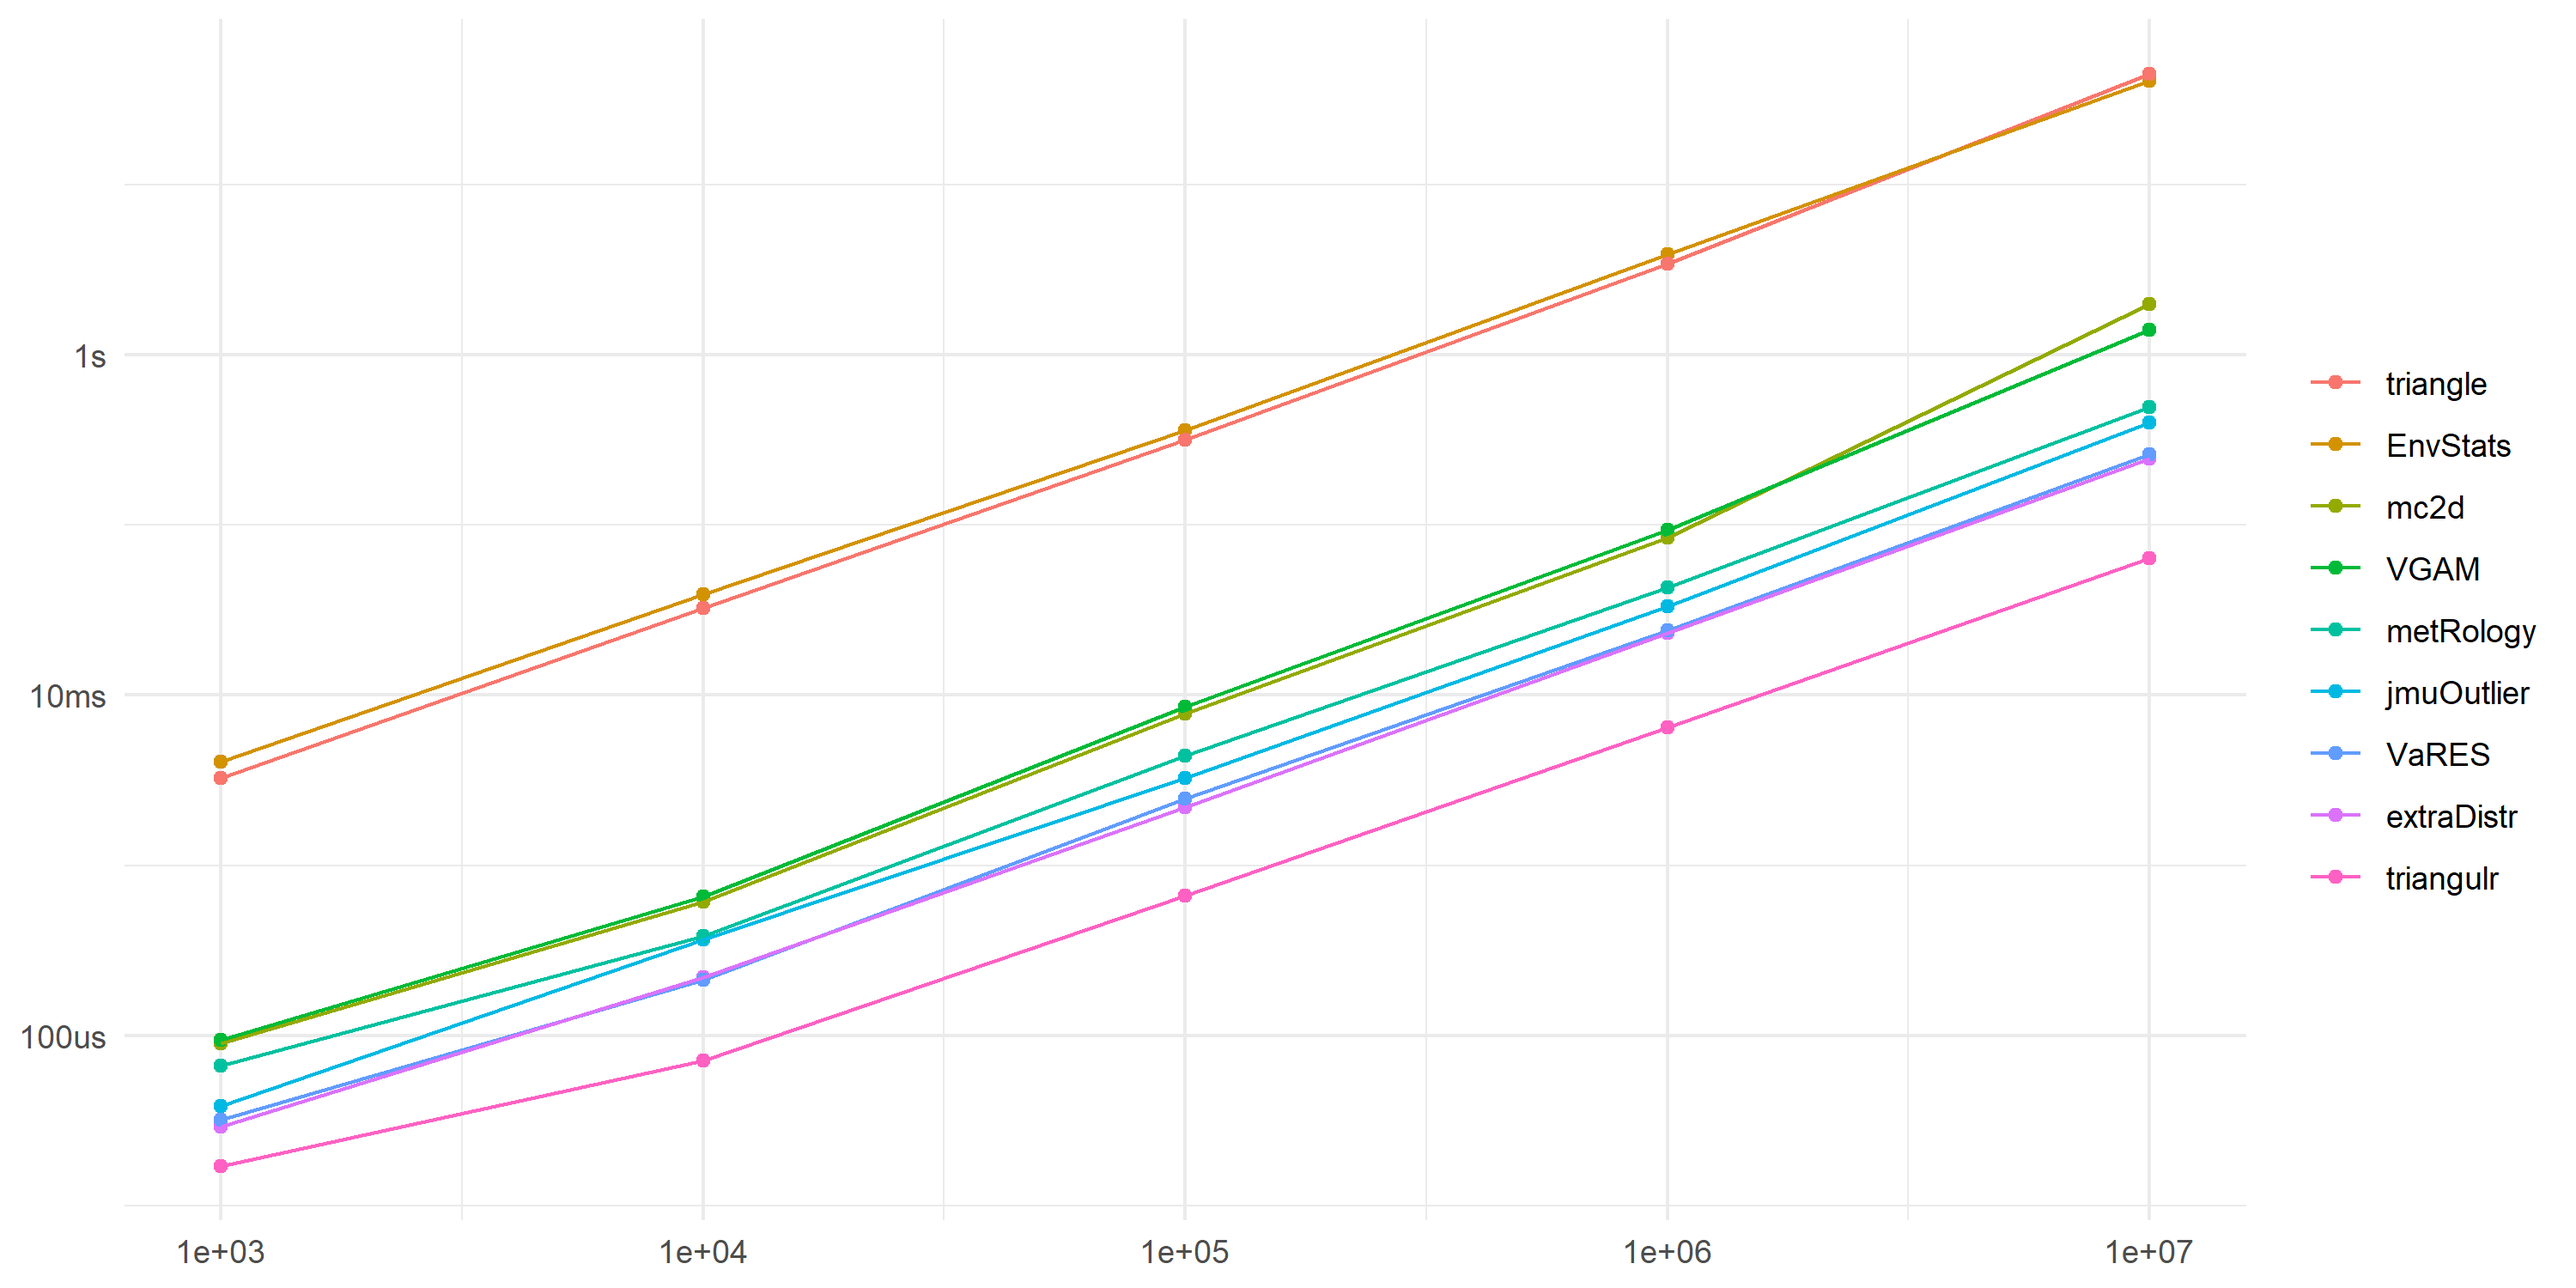
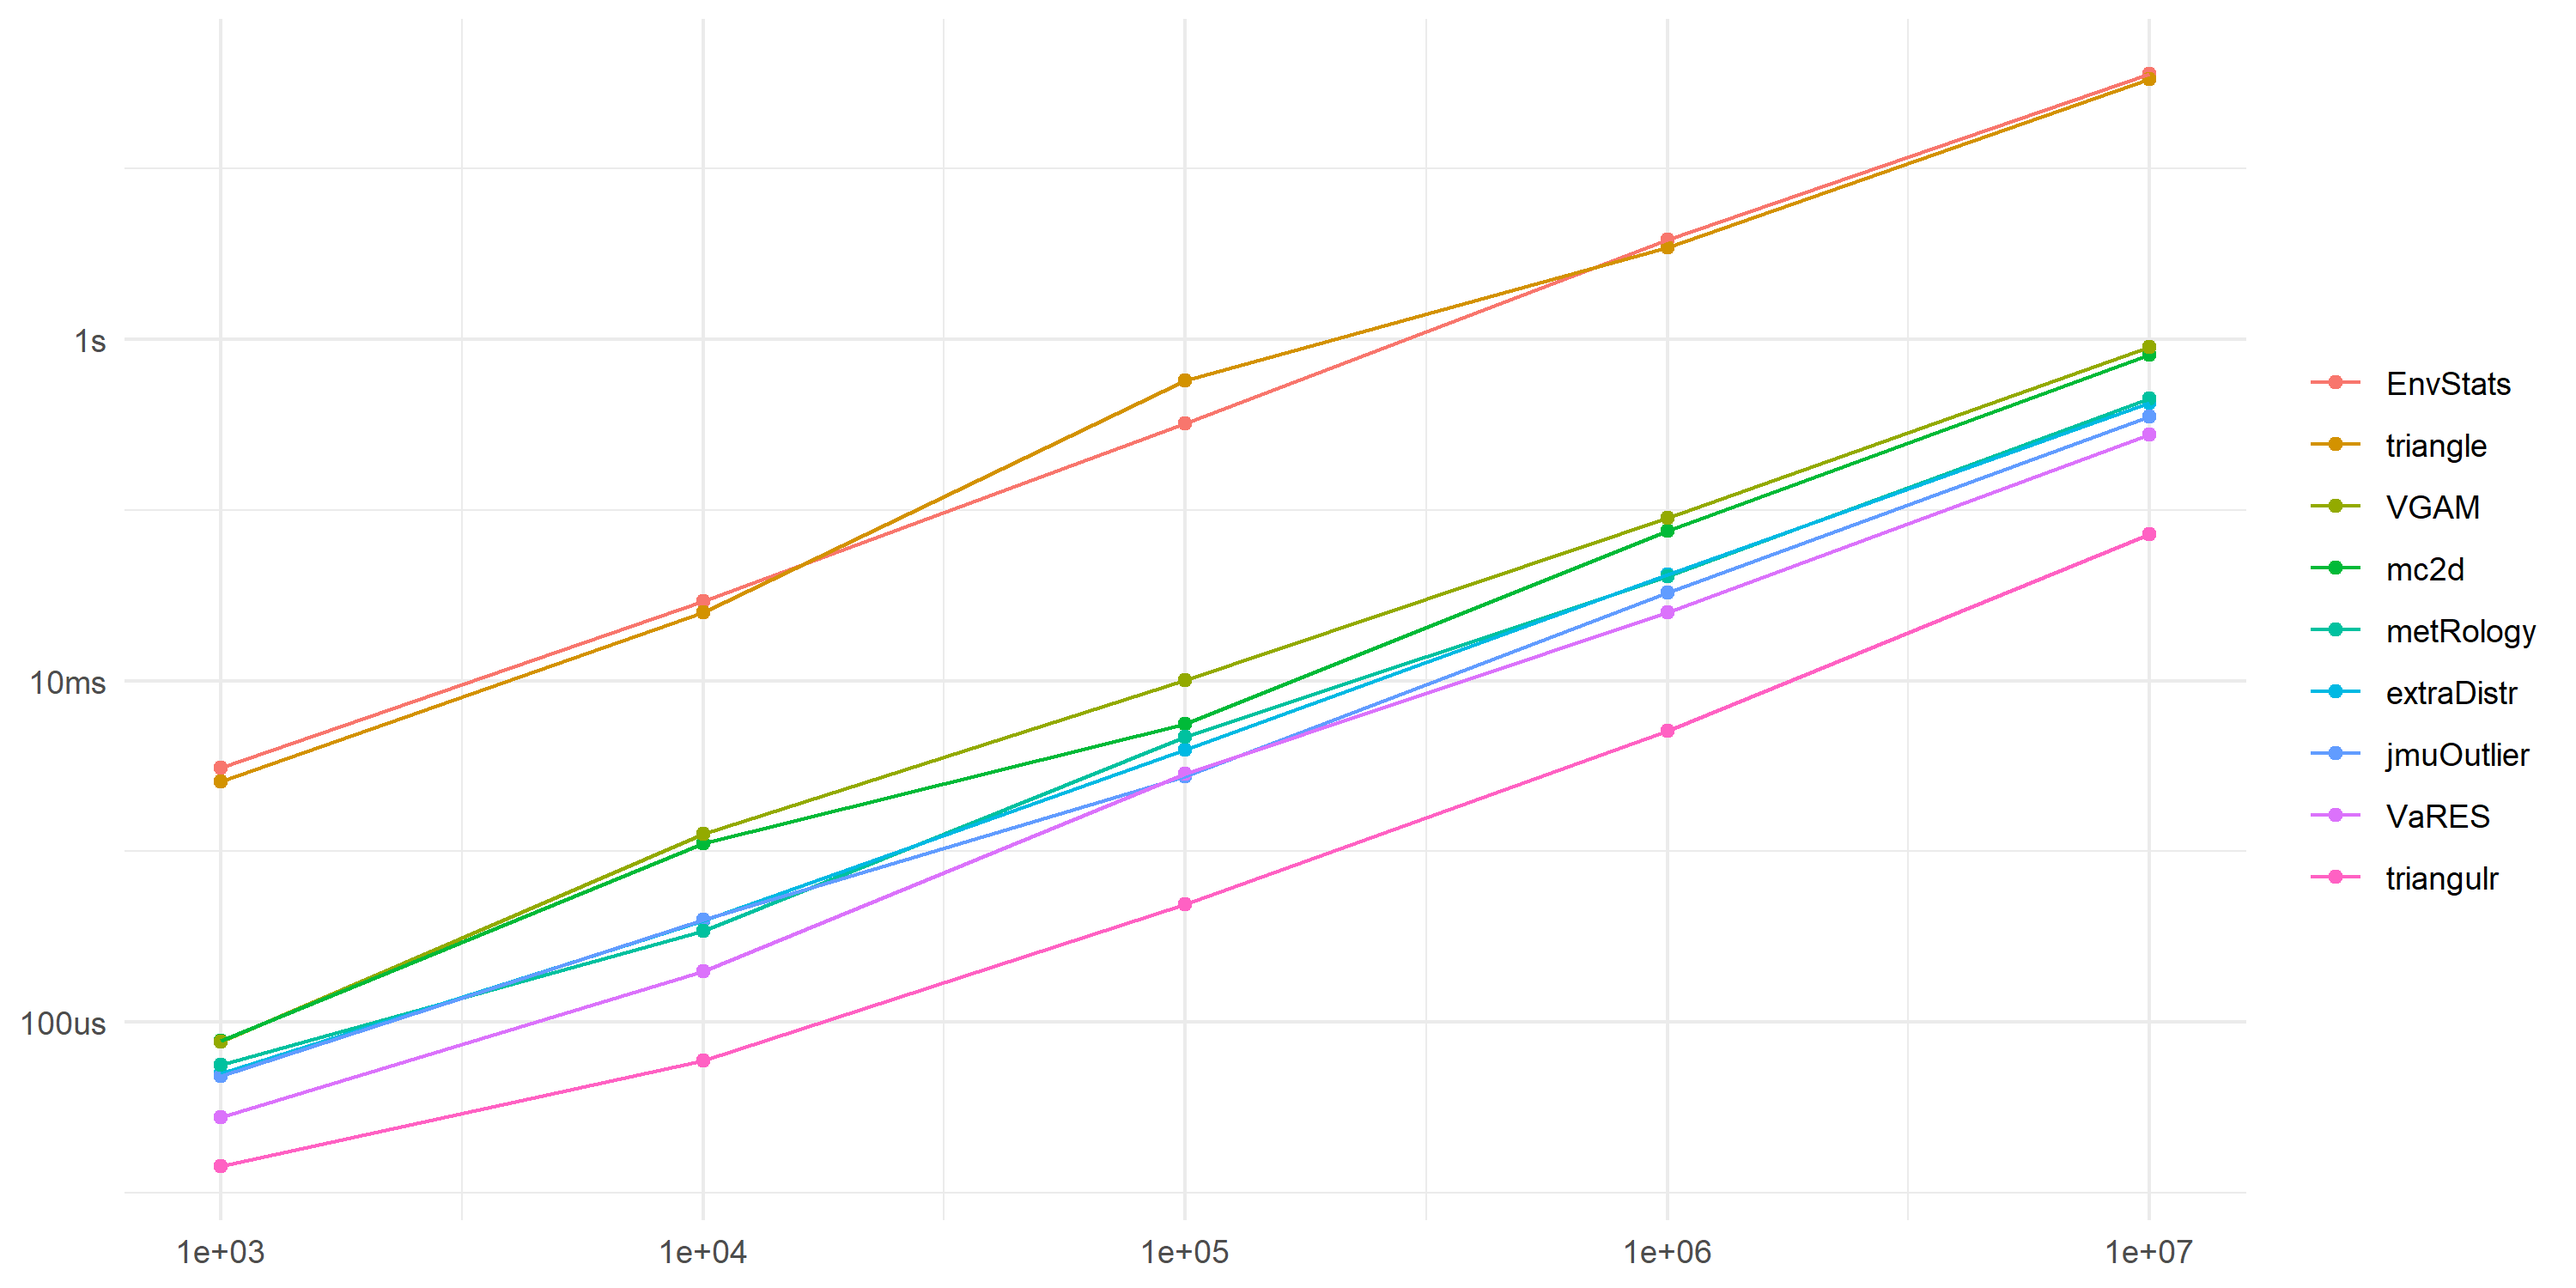
Update benchmarks

diff --git a/benchmark/README.md b/benchmark/README.md
@@ -2,95 +2,103 @@
 
 **NOTE**: Functions from [distr6](https://alan-turing-institute.github.io/distr6/) and [tfprobability](https://rstudio.github.io/tfprobability/) packages will not be included as they do not work without requiring a distribution object.
 
-
 ## Methodology
 
 I used [bench](https://bench.r-lib.org/) for speed and memory benchmarking. The bench package is preferred as it provides a number of advantages over other alternatives, such as tracking of memory allocation and number of garbage collections. More info: [bench.r-lib.org](https://bench.r-lib.org/)
-
 
 ## Environment
 
 R 4.0.2
 
-Package                                                     | Version
------------------------------------------------------------ | -----------
-[EnvStats](https://www.probstatinfo.com/)                   | 2.4.0
-[extraDistr](https://github.com/twolodzko/extraDistr)       | 1.9.1
-[fitODBOD](https://amalan-constat.github.io/R-fitODBOD/)    | 1.4.1.1
-[jmuOutlier](https://CRAN.R-project.org/package=jmuOutlier) | 2.2
-[mc2d](https://cran.r-project.org/package=mc2d)             | 0.1.18
-[metRology](https://cran.r-project.org/package=metRology)   | 0.9.28.1
-[OOmisc](https://cran.r-project.org/package=OOmisc)         | 1.2
-[propagate](https://cran.r-project.org/package=propagate)   | 1.0.6
-[Runuran](https://statmath.wu.ac.at/unuran/)                | 0.33
-[triangle](https://bertcarnell.github.io/triangle/)         | 0.12
-[triangulr](https://irkaal.github.io/triangulr/)            | Development
-[VaRES](https://cran.r-project.org/package=VaRES)           | 1.0
-[VGAM](https://www.stat.auckland.ac.nz/~yee/VGAM/)          | 1.1.4
+| Package                                                     | Version    |
+| ----------------------------------------------------------- | ---------- |
+| [EnvStats](https://www.probstatinfo.com/)                   | 2.4.0      |
+| [extraDistr](https://github.com/twolodzko/extraDistr)       | 1.9.1      |
+| [fitODBOD](https://amalan-constat.github.io/R-fitODBOD/)    | 1.4.1.1    |
+| [jmuOutlier](https://CRAN.R-project.org/package=jmuOutlier) | 2.2        |
+| [mc2d](https://cran.r-project.org/package=mc2d)             | 0.1.18     |
+| [metRology](https://cran.r-project.org/package=metRology)   | 0.9.28.1   |
+| [OOmisc](https://cran.r-project.org/package=OOmisc)         | 1.2        |
+| [propagate](https://cran.r-project.org/package=propagate)   | 1.0.6      |
+| [Runuran](https://statmath.wu.ac.at/unuran/)                | 0.33       |
+| [triangle](https://bertcarnell.github.io/triangle/)         | 0.12       |
+| [triangulr](https://irkaal.github.io/triangulr/)            | 1.0.0.9000 |
+| [VaRES](https://cran.r-project.org/package=VaRES)           | 1.0        |
+| [VGAM](https://www.stat.auckland.ac.nz/~yee/VGAM/)          | 1.1.4      |
 
-Component |	Value
---------- | -----
-CPU Model | AMD Ryzen 5 3600 @ 3.6 Ghz
-CPU Cores | 6
-RAM Model | DIMM Synchronous 3200 MHz
-RAM GB    | 16
-
+| Component | Value                        |
+| --------- | ---------------------------- |
+| CPU Model | Intel Core i7-8700K @ 3.7GHz |
+| CPU Cores | 6                            |
+| RAM Model | DIMM Synchronous 2667 MHz    |
+| RAM GB    | 32                           |
 
 ## Density Functions
 
 ### 10M Quantiles
-![](plot/dbench_7.png)
+
+![](plot/dbench_8.png)
 
 ### Median Time
+
 ![](plot/dbench_time.png)
 
 ### Memory
-![](plot/dbench_mem.png)
 
+![](plot/dbench_mem.png)
 
 ## Distribution Functions
 
 ### 10M Quantiles
-![](plot/pbench_7.png)
+
+![](plot/pbench_8.png)
 
 ### Median Time
+
 ![](plot/pbench_time.png)
 
 ### Memory Allocation
-![](plot/pbench_mem.png)
 
+![](plot/pbench_mem.png)
 
 ## Quantile Functions
 
 ### 10M Probabilities
+
 ![](plot/qbench_7.png)
 
 ### Median Time
+
 ![](plot/qbench_time.png)
 
 ### Memory Allocation
-![](plot/qbench_mem.png)
 
+![](plot/qbench_mem.png)
 
 ## Random Variate Generator Functions
 
 ### 10M Random Variates
-![](plot/rbench_7.png)
+
+![](plot/rbench_8.png)
 
 ### Median Time
+
 ![](plot/rbench_time.png)
 
 ### Memory Allocation
-![](plot/rbench_mem.png)
 
+![](plot/rbench_mem.png)
 
 ## Expected Shortfall Functions
 
 ### 100K Probabilities
-![](plot/esbench_5.png)
+
+![](plot/esbench_6.png)
 
 ### Median Time
+
 ![](plot/esbench_time.png)
 
 ### Memory Allocation
+
 ![](plot/esbench_mem.png)
